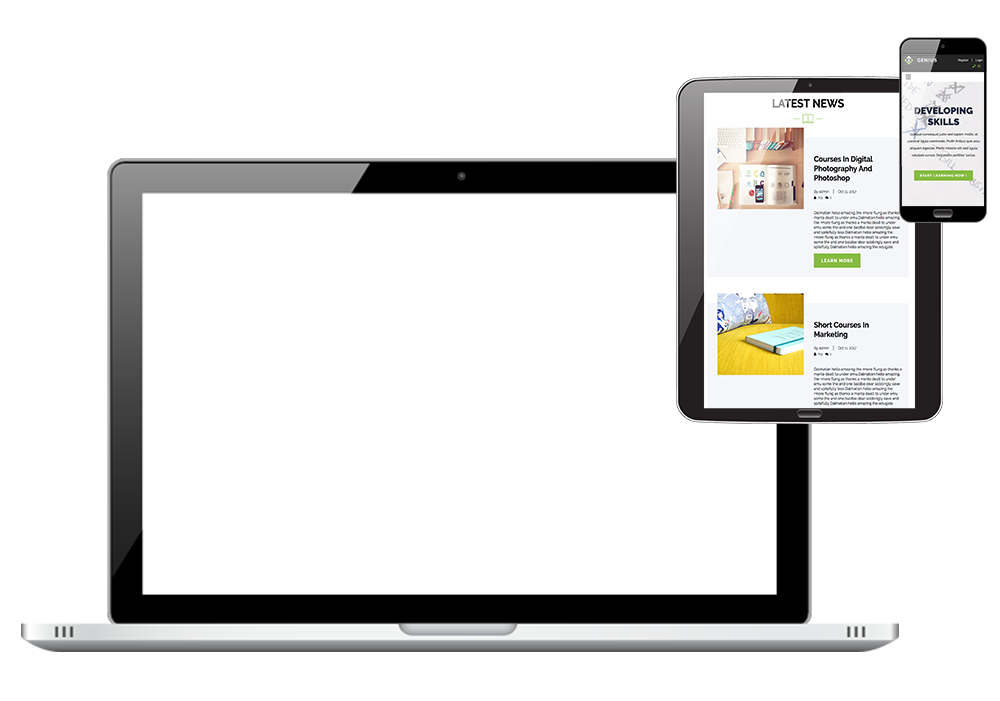
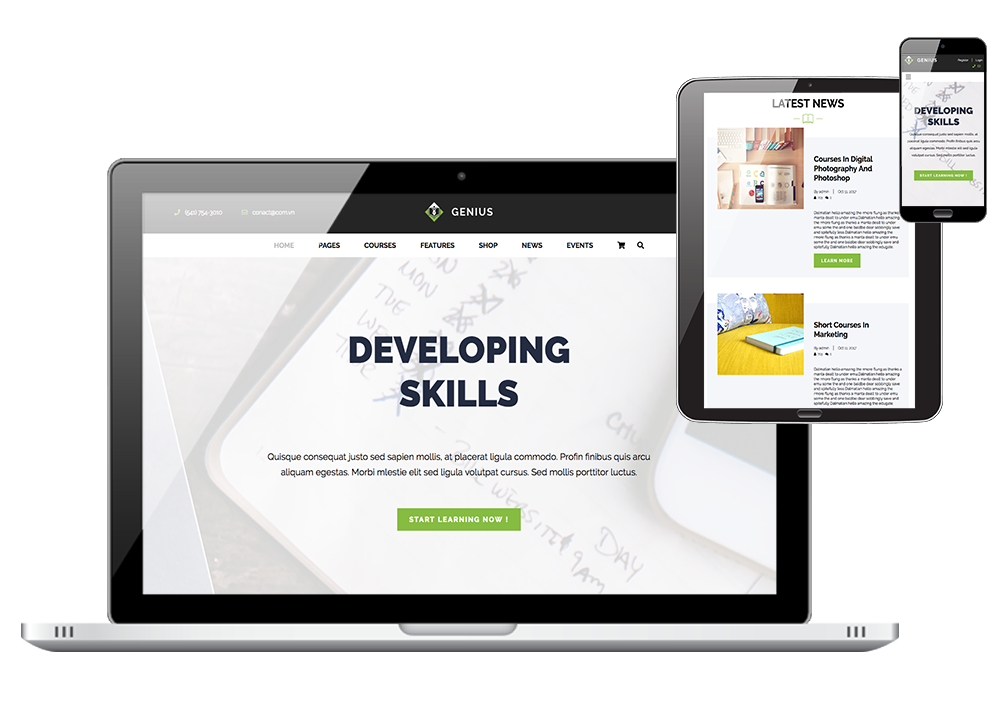
psd fixed

diff --git a/public/styles/style.css b/public/styles/style.css
@@ -291,6 +291,7 @@ ul {
 
 .profilePhoto2 {
   display: none;
+  position: relative;
   -webkit-box-shadow: 0 6px 10px rgba(0, 0, 0, 0.16), 0 10px 18px rgba(235, 235, 235, 0.2);
           box-shadow: 0 6px 10px rgba(0, 0, 0, 0.16), 0 10px 18px rgba(235, 235, 235, 0.2); }
 
@@ -334,7 +335,7 @@ ul {
     display: block;
     width: 45%;
     margin: 22% 0 -8%;
-    top: 25%;
+    top: 0%;
     z-index: 9; }
   #about {
     display: -webkit-box;
@@ -366,8 +367,7 @@ ul {
     line-height: 2.2rem; } }
 
 section {
-  height: 100vh;
-  border: 1px solid pink; }
+  height: 100vh; }
 
 .right, .left {
   width: 50%;
@@ -387,15 +387,19 @@ section {
   -webkit-box-align: center;
       -ms-flex-align: center;
           align-items: center;
-  padding-top: 15%; }
+  padding-top: 15%;
+  position: relative; }
   .vwaveLaptop img {
-    position: absolute;
-    width: 45%;
+    width: 90%;
     max-width: 500px;
     overflow: hidden; }
   .vwaveLaptop video {
-    width: 75%;
-    max-width: 500px; }
+    width: 67%;
+    max-width: 500px;
+    position: absolute;
+    left: 15%;
+    top: 35%;
+    z-index: -1; }
 
 #vaporwave .right {
   -webkit-box-orient: vertical;
@@ -426,7 +430,9 @@ h3 {
     padding-bottom: 15px;
     width: 85%; }
   .vwaveLaptop video {
-    width: 72%; }
+    width: 72%;
+    left: 14%;
+    top: 30%; }
   #vaporwave .right .vwaveText {
     padding-right: 0;
     padding-top: 10vh;
@@ -436,11 +442,6 @@ h3 {
     -webkit-box-pack: center;
         -ms-flex-pack: center;
             justify-content: center; } }
-
-@media (max-width: 567px) {
-  .vwaveLaptop video {
-    width: 69%;
-    margin-bottom: 14px; } }
 
 @media (max-width: 500px) {
   #vaporwave .left {
@@ -479,11 +480,17 @@ h3 {
     #baloo .right img:hover {
       cursor: url("../../public/styles/assets/fightCat.png") 20 20, auto; }
 
+@media (max-width: 1120px) {
+  #baloo .left .balooText {
+    width: 60%; } }
+
 @media (max-width: 800px) {
   #baloo .left {
     margin-top: 10%;
     width: 100%;
     padding: 5%; }
+    #baloo .left .balooText {
+      width: 100%; }
   #baloo .right {
     width: 100%; }
     #baloo .right img {
@@ -540,7 +547,8 @@ h3 {
   -webkit-box-align: center;
       -ms-flex-align: center;
           align-items: center;
-  position: absolute;
+  position: relative;
+  left: -50%;
   margin-top: -96px; }
 
 .line {
@@ -639,10 +647,6 @@ h3 {
     width: 48px;
     margin-top: -51px; } }
 
-.psdMockUps img {
-  width: 100%;
-  overflow: scroll; }
-
 #psdConversion {
   position: relative; }
   #psdConversion .left {
@@ -678,6 +682,24 @@ h3 {
       position: relative;
       width: 65vh;
       left: -30vh; }
+
+@media (max-width: 800px) {
+  #psdConversion .left {
+    margin-top: 10%;
+    width: 100%;
+    padding: 5%; }
+  #psdConversion .right {
+    width: 100%; }
+    #psdConversion .right img {
+      margin: -15% auto;
+      width: 75%;
+      left: 0; }
+  .psdText {
+    width: 100%; } }
+
+@media (max-width: 600px) {
+  #psdConversion .right img {
+    margin: -25% auto; } }
 
 #contact {
   background: #F4E8E2;

diff --git a/dev/styles/_devWork.scss b/dev/styles/_devWork.scss
@@ -1,6 +1,6 @@
 section{
     height: 100vh;
-    border: 1px solid pink;
+    // border: 1px solid pink;
 }
 
 .right, .left{
@@ -17,17 +17,19 @@ section{
     justify-content: center;
     align-items: center;
     padding-top: 15%;
+    position: relative;
     img{
-        position: absolute;
-        width: 45%;
+        width: 90%;
         max-width: 500px;
         overflow: hidden;
     }
-
-
     video{
-        width: 75%;
+        width: 67%;
         max-width: 500px;
+        position: absolute;
+        left: 15%;
+        top: 35%;
+        z-index: -1
     }
 }
 
@@ -68,6 +70,8 @@ h3{
         }
         video{
             width: 72%;
+            left: 14%;
+            top: 30%;
         }
     }
 
@@ -89,8 +93,8 @@ h3{
 @media (max-width:567px){
   .vwaveLaptop{
         video{
-            width: 69%;
-            margin-bottom: 14px;
+            // width: 69%;
+            // margin-bottom: 14px;
         }
     }
 }
@@ -137,12 +141,25 @@ h3{
     }
 }
 
+@media (max-width:1120px){
+    #baloo{
+        .left{
+            .balooText{
+                width: 60%;
+            }
+        }   
+    }
+}
+
 @media (max-width:800px){
     #baloo{
         .left{
             margin-top: 10%;
             width: 100%;
             padding: 5%;
+            .balooText{
+                width: 100%;
+            }
         }
         .right{
             width: 100%;
@@ -213,7 +230,8 @@ h3{
   width: 100px;
   display:flex;
   align-items: center;
-  position: absolute;
+  position: relative;
+  left: -50%;
     margin-top: -96px;
 }
 
@@ -221,7 +239,7 @@ h3{
   width:10%;
   border-radius: 4px;
   margin-right:12%;
-  animation: pulse 2s ease-in-out infinite   
+  animation: pulse 2s ease-in-out infinite;  
 }
 
 .smallLeft{
@@ -342,13 +360,6 @@ h3{
 
 //PSD Conversion
 
-.psdMockUps{
-    img{
-        width: 100%;
-        overflow: scroll;
-    }
-}
-
 
 #psdConversion{
     position: relative;
@@ -381,17 +392,38 @@ h3{
     }
 }
 
-// .longScroll{
-//    overflow: scroll;
-//     position: absolute;
-//     z-index: 1;
-//     // width: 142%;
-//     top: 51vh;
-//     // background: red;
-//     height: 218px;
-//     left: -190px;
-//     img{
-//     }
-// }
 
+@media (max-width:800px){
+    #psdConversion{
+        .left{
+            margin-top: 10%;
+            width: 100%;
+            padding: 5%;
+        }
+        .right{
+            width: 100%;
+            img{
+                margin: -15% auto;
+                width: 75%;
+                left: 0;
+            }
+        
+        }
+    }
 
+     .psdText{
+        width: 100%;
+    }
+}
+
+@media (max-width:600px){
+    #psdConversion{
+        .right{
+            
+            img{
+                margin: -25% auto;
+                // width: 50%;
+            }
+        }
+    }
+}

diff --git a/index.html b/index.html
@@ -142,10 +142,10 @@
 
 <!-- about -->
 	<div id="about" class="clearfix">
-		<!-- <img class="profilePhoto2" src="./public/styles/assets/profilephoto.jpg" alt="Photo of web developr Christina laba"> -->
+	
 		<video src="./public/styles/assets/video-1520804025.mp4" autoplay loop class="profilePhoto2"></video>
+
 		<div class="aboutContainer">
-			<!-- <img class="profilePhoto" src="./public/styles/assets/profilephoto.jpg" alt="Photo of web developr Christina laba"> -->
 			<video src="./public/styles/assets/video-1520804025.mp4" autoplay loop class="profilePhoto"></video>
 			<div class="aboutText wrapper">
 				<h2>About</h2>
@@ -272,12 +272,9 @@
 			</div>
 
 			<div class="right wrapper">
-				<div class="psdMockUps">
+				<!-- <div class="psdMockUps"> -->
 					<img src="./public/styles/assets/psd-conversion.png" alt="laptop screen">
-					<!-- <div class= "longScroll">
-						<img src="./public/styles/assets/laptop-Conversion.jpg" alt="">
-					</div> -->
-				</div>
+				<!-- </div> -->
 			</div>
 		</section>
 
@@ -288,19 +285,20 @@
 		<div class="wrapper">
 			<h2>Contact</h2>
 			
-			<form action="" class="clearfix">
+			<form action="https://formspree.io/hello@christinalaba.com" method="POST" class="clearfix">
 				<label for="name" class="visuallyhidden">Name</label>
-				<input type="text" class="name" placeholder="Your name">
+				<input type="text" class="name" placeholder="Your name" name="user-name">
 				
 				<label for="name" class="visuallyhidden">Email</label>
-				<input type="email" class="email" placeholder="Your e-mail">
+				<input type="email" class="email" placeholder="Your e-mail" name="user-email">
 				
 				<label for="message" class="visuallyhidden">Message</label>
 				<textarea name="mesage" placeholder="Your message" id="messageBox" cols="30" rows="7"></textarea>
 				
 				<input type="submit" class ="send" value="Send" >
 			</form>
-			<p>hello@christinalaba.com</p>
+			<a href="mailto:hello@christinalaba.com">hello@christinalaba.com</a>
+		
 			<div class="social-icons">
 				<a href="https://www.linkedin.com/in/christinalaba"><i class="fab fa-linkedin-in">
 				</i></a>
@@ -319,7 +317,7 @@
 			<img src="./public/styles/assets/Arrow.png" alt="">
 		</div>
 		<div class="credits clearfix">
-			<p>&copy; Christina Laba</p>
+			<p>&copy; Christina Laba 2018</p>
 			<p class="sources">Product photography by Rohaan Agalawatte and Danielle Schon</p>
 		</div>
 	</footer>

diff --git a/dev/styles/_about.scss b/dev/styles/_about.scss
@@ -13,6 +13,7 @@
 
 .profilePhoto2{
     display: none;
+    position: relative;
     box-shadow: 0 6px 10px rgba(0, 0, 0, 0.16), 0 10px 18px rgba(235, 235, 235, 0.2);
 }
 
@@ -62,7 +63,7 @@
         display: block;
         width: 45%;
         margin: 22% 0 -8%;
-        top: 25%;
+        top: 0%;
         z-index: 9;
     }
 
